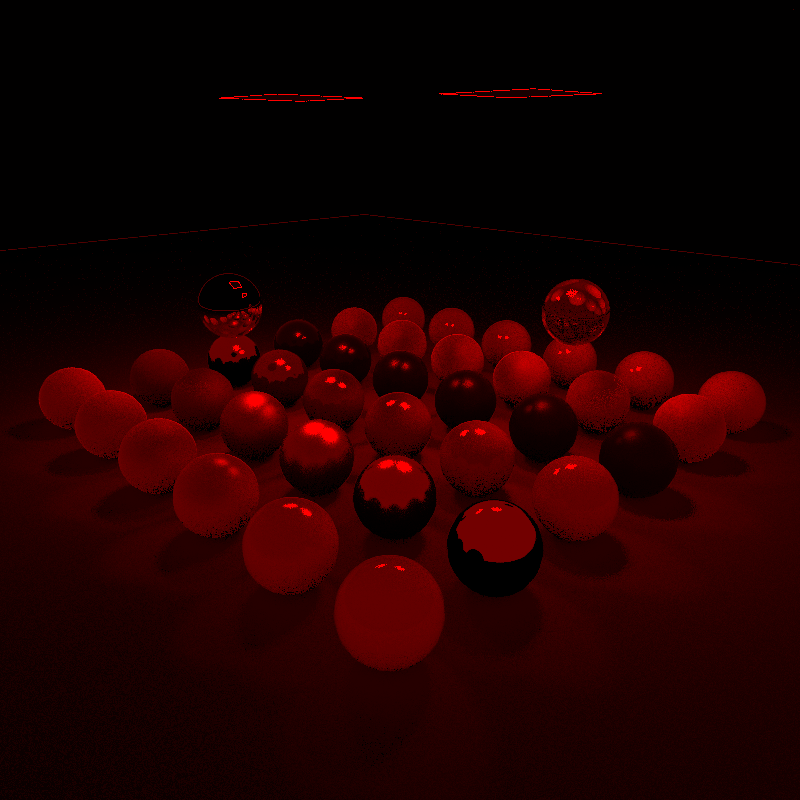
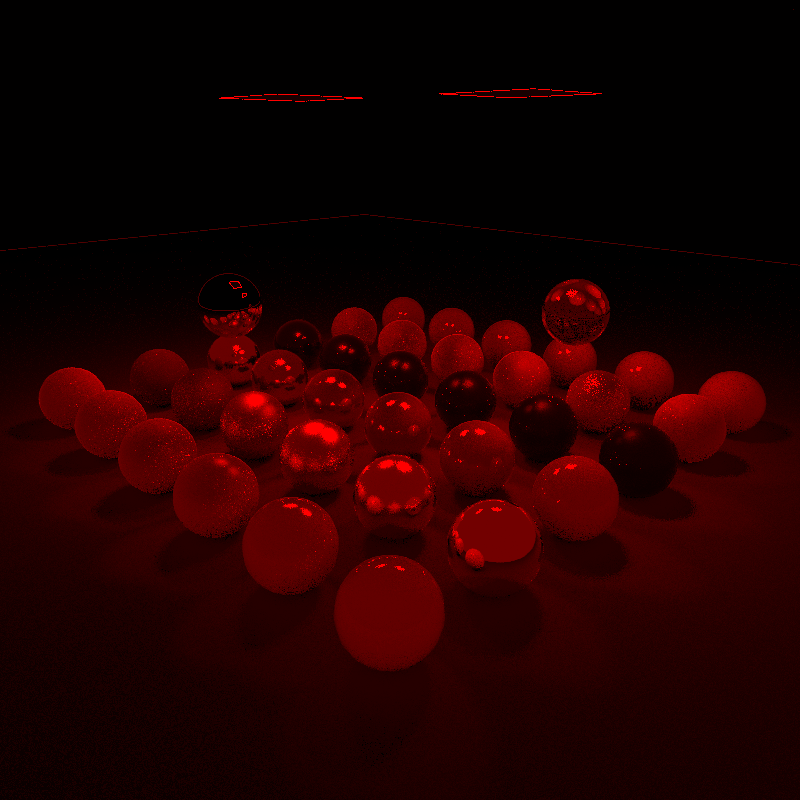
direct specular & indirect diffuse separation

diff --git a/src/interactions.h b/src/interactions.h
@@ -189,7 +189,7 @@ __host__ __device__ float schlickFresnelFull(float eta, float cosOut) {
 
 __host__ __device__ bool sampleBsdf(
 	glm::vec3 lightOut, glm::vec3 shadeNormal, Material m, bool backface,
-	glm::vec2 rand, glm::vec3 *lightInRes, glm::vec3 *bsdf, float *pdf
+	glm::vec2 rand, glm::vec3 *lightInRes, glm::vec3 *bsdf, float *pdf, bool *isSpecular
 ) {
 	glm::vec3 lightIn;
 	switch (m.type) {
@@ -197,6 +197,7 @@ __host__ __device__ bool sampleBsdf(
 		lightIn = glm::reflect(-lightOut, shadeNormal);
 		*bsdf = m.baseColorLinear / glm::abs(glm::dot(shadeNormal, lightIn));
 		*pdf = 1.0f;
+		*isSpecular = true;
 		break;
 	case MaterialType::specularTransmission:
 		{
@@ -228,6 +229,7 @@ __host__ __device__ bool sampleBsdf(
 				*pdf = 1.0f - fresnel;
 			}
 			*bsdf = m.baseColorLinear * (*pdf) / glm::abs(glm::dot(shadeNormal, lightIn));
+			*isSpecular = true;
 		}
 		break;
 
@@ -249,6 +251,7 @@ __host__ __device__ bool sampleBsdf(
 				rand.x = (rand.x - diffuseWeight) / (1.0f - diffuseWeight);
 				half = sampleDisneySpecularHalf(m, shadeNormal, rand);
 				lightIn = glm::reflect(-lightOut, half);
+				*isSpecular = true;
 			}
 
 			float cosOut = glm::abs(glm::dot(shadeNormal, lightOut)), cosIn = glm::dot(shadeNormal, lightIn);
@@ -411,7 +414,10 @@ __host__ __device__ void multipleImportanceSampling(
 	// sample bsdf
 	glm::vec3 lteBsdf(0.0f), lightInBsdf, bsdfBsdf;
 	float bsdfPdfBsdf = 0.0f, lightPdfBsdf = 0.0f;
-	if (sampleBsdf(-path.ray.direction, shadeNormal, m, backface, rand2, &lightInBsdf, &bsdfBsdf, &bsdfPdfBsdf)) {
+	bool isSpecularDummy;
+	if (sampleBsdf(
+		-path.ray.direction, shadeNormal, m, backface, rand2, &lightInBsdf, &bsdfBsdf, &bsdfPdfBsdf, &isSpecularDummy
+	)) {
 		Ray ray;
 		ray.origin = intersect;
 		ray.direction = lightInBsdf;
@@ -469,7 +475,7 @@ __host__ __device__ void multipleImportanceSampling(
 __host__ __device__ void scatterRay(
 	PathSegment &path, glm::vec3 intersect,
 	glm::vec3 geomNormal, glm::vec3 shadeNormal, const Material &m,
-	glm::vec2 rand, bool includeDirectLighting, bool isIndirect
+	glm::vec2 rand, bool *isSpecular, bool includeDirectLighting, bool isIndirect
 ) {
 	path.ray.origin = intersect;
 
@@ -491,7 +497,7 @@ __host__ __device__ void scatterRay(
 
 		glm::vec3 brdf, lightIn;
 		float pdf;
-		if (!sampleBsdf(-path.ray.direction, shadeNormal, m, backface, rand, &lightIn, &brdf, &pdf)) {
+		if (!sampleBsdf(-path.ray.direction, shadeNormal, m, backface, rand, &lightIn, &brdf, &pdf, isSpecular)) {
 			path.remainingBounces = 0;
 		}
 		path.ray.direction = lightIn;

diff --git a/src/preview.cpp b/src/preview.cpp
@@ -196,7 +196,7 @@ void drawGui(int windowWidth, int windowHeight) {
 
     // Dear imgui define
     ImVec2 minSize(300.f, 100.f);
-    ImVec2 maxSize((float)windowWidth * 0.5, (float)windowHeight * 0.5);
+    ImVec2 maxSize((float)windowWidth, (float)windowHeight);
     ImGui::SetNextWindowSizeConstraints(minSize, maxSize);
 
     ImGui::SetNextWindowPos(ui_hide ? ImVec2(-1000.f, -1000.f) : ImVec2(0.0f, 0.0f));
@@ -217,13 +217,15 @@ void drawGui(int windowWidth, int windowHeight) {
 
 	{
 		const char *previewItems[] = {
-            "Direct Illumination",
-            "Direct Illumination Variance",
-            "Indirect Illumination",
-            "Indirect Illumination Variance",
+            "Direct Specular Illumination",
+            "Direct Specular Illumination Variance",
+            "Indirect Diffuse Illumination",
+            "Indirect Diffuse Illumination Variance",
             "Full Illumination",
             "World Normal",
             "World Position",
+            "Filtered Direct Specular",
+            "Filtered Indirect Diffuse",
             "Filtered Color"
         };
 		ImGui::Combo("Visualize Buffer", &ui_previewBuffer, previewItems, IM_ARRAYSIZE(previewItems));
@@ -234,10 +236,17 @@ void drawGui(int windowWidth, int windowHeight) {
 
     ImGui::Separator();
 
-    ImGui::SliderInt("Filter Size", &ui_filterSize, 0, 100);
-    ImGui::SliderFloat("Color Weight", &ui_colorWeight, 0.001f, 3.0f);
-    ImGui::SliderFloat("Normal Weight", &ui_normalWeight, 0.001f, 3.0f);
-    ImGui::SliderFloat("Position Weight", &ui_positionWeight, 0.001f, 3.0f);
+    ImGui::SliderInt("Specular Filter Size", &ui_specularFilterSize, 0, 100);
+    ImGui::SliderFloat("Specular Color Weight", &ui_specularColorWeight, 0.001f, 3.0f);
+    ImGui::SliderFloat("Specular Normal Weight", &ui_specularNormalWeight, 0.001f, 3.0f);
+    ImGui::SliderFloat("Specular Position Weight", &ui_specularPositionWeight, 0.001f, 3.0f);
+
+    ImGui::Separator();
+
+    ImGui::SliderInt("Diffuse Filter Size", &ui_diffuseFilterSize, 0, 100);
+    ImGui::SliderFloat("Diffuse Color Weight", &ui_diffuseColorWeight, 0.001f, 3.0f);
+    ImGui::SliderFloat("Diffuse Normal Weight", &ui_diffuseNormalWeight, 0.001f, 3.0f);
+    ImGui::SliderFloat("Diffuse Position Weight", &ui_diffusePositionWeight, 0.001f, 3.0f);
 
     ImGui::End();
 

diff --git a/src/main.cpp b/src/main.cpp
@@ -30,10 +30,15 @@ int ui_previewBuffer = static_cast<int>(BufferType::FullIllumination);
 bool ui_pauseRendering = false;
 int ui_limitSamples = 0;
 
-int ui_filterSize = 80;
-float ui_colorWeight = 0.45f;
-float ui_normalWeight = 0.35f;
-float ui_positionWeight = 0.2f;
+int ui_specularFilterSize = 80;
+float ui_specularColorWeight = 3.0f;
+float ui_specularNormalWeight = 0.15f;
+float ui_specularPositionWeight = 0.4f;
+
+int ui_diffuseFilterSize = 10;
+float ui_diffuseColorWeight = 1.0f;
+float ui_diffuseNormalWeight = 0.1f;
+float ui_diffusePositionWeight = 0.1f;
 
 static bool camchanged = true;
 static float dtheta = 0, dphi = 0;
@@ -141,16 +146,16 @@ void saveImage(BufferType type) {
     std::ostringstream ss;
     ss << filename << "." << startTimeString << "." << samples << "samp" << ".";
     switch (static_cast<BufferType>(ui_previewBuffer)) {
-    case BufferType::DirectIllumination:
+    case BufferType::DirectSpecularIllumination:
         ss << "direct";
         break;
-    case BufferType::DirectIlluminationVariance:
+    case BufferType::DirectSpecularIlluminationVariance:
         ss << "directVar";
         break;
-    case BufferType::IndirectIllumination:
+    case BufferType::IndirectDiffuseIllumination:
         ss << "indirect";
         break;
-    case BufferType::IndirectIlluminationVariance:
+    case BufferType::IndirectDiffuseIlluminationVariance:
         ss << "indirectVar";
         break;
     case BufferType::FullIllumination:
@@ -269,7 +274,15 @@ void runCuda() {
         }
     }
 
-    aTrous(5, ui_filterSize, iteration, ui_colorWeight, ui_normalWeight, ui_positionWeight);
+    aTrousPrepare(iteration);
+    aTrous(
+        BufferType::DirectSpecularIllumination, 5, ui_specularFilterSize, iteration,
+        ui_specularColorWeight, ui_specularNormalWeight, ui_specularPositionWeight
+    );
+    aTrous(
+        BufferType::IndirectDiffuseIllumination, 5, ui_diffuseFilterSize, iteration,
+        ui_diffuseColorWeight, ui_diffuseNormalWeight, ui_diffusePositionWeight
+    );
 
     uchar4 *pbo_dptr = NULL;
     cudaGLMapBufferObject((void **)&pbo_dptr, pbo);

diff --git a/src/pathtrace.h b/src/pathtrace.h
@@ -5,13 +5,15 @@
 #include "utilities.h"
 
 enum class BufferType {
-	DirectIllumination,
-	DirectIlluminationVariance,
-	IndirectIllumination,
-	IndirectIlluminationVariance,
+	DirectSpecularIllumination,
+	DirectSpecularIlluminationVariance,
+	IndirectDiffuseIllumination,
+	IndirectDiffuseIlluminationVariance,
 	FullIllumination,
 	Normal,
 	Position,
+	FilteredDirectSpecular,
+	FilteredIndirectDiffuse,
 	FilteredColor
 };
 
@@ -22,7 +24,10 @@ void updateStratifiedSamples(
 );
 
 void pathtrace(int frame, int iteration, int directLight, int numLights);
-void aTrous(int levels, float radius, int iter, float colorWeight, float normalWeight, float positionWeight);
+void aTrousPrepare(int iter);
+void aTrous(
+	BufferType buf, int levels, float radius, int iter, float colorWeight, float normalWeight, float positionWeight
+);
 
 void saveBufferState(BufferType buf, int iteration);
 void sendBufferToPbo(uchar4 *pbo, BufferType buf, int iter);

diff --git a/src/main.h b/src/main.h
@@ -36,10 +36,15 @@ extern int ui_previewBuffer;
 extern bool ui_pauseRendering;
 extern int ui_limitSamples;
 
-extern int ui_filterSize;
-extern float ui_colorWeight;
-extern float ui_normalWeight;
-extern float ui_positionWeight;
+extern int ui_specularFilterSize;
+extern float ui_specularColorWeight;
+extern float ui_specularNormalWeight;
+extern float ui_specularPositionWeight;
+
+extern int ui_diffuseFilterSize;
+extern float ui_diffuseColorWeight;
+extern float ui_diffuseNormalWeight;
+extern float ui_diffusePositionWeight;
 
 void runCuda();
 void restartRendering();

diff --git a/src/sceneStructs.h b/src/sceneStructs.h
@@ -104,8 +104,9 @@ struct PathSegment {
 	Ray ray;
 	int pixelIndex;
 	int lastGeom;
-	int16_t remainingBounces;
+	int8_t remainingBounces;
 	bool prevBounceNoMis;
+	bool prevBounceSpecular;
 	bool indirectIllum;
 };
 

diff --git a/README.md b/README.md
@@ -14,19 +14,19 @@ Denoised 16 samples per pixel image.
 
 Original 16 samples per pixel image.
 
-## Separation of Direct and Indirect Illumination
+## Separation of Direct specular and Indirect diffuse Illumination
 
 ![](img/atrous/disney/direct.png)
 
-Direct illumination, 16 samples per pixel.
+Direct specular illumination, 16 samples per pixel.
 
 ![](img/atrous/disney/indirect.png)
 
-Indirect illumination, 16 samples per pixel.
+Indirect diffuse illumination, 16 samples per pixel.
 
-The path tracer has been modified to output direct and indirect illumination separately. As can be seen from the two images above, indirect illumination contains much more noise that direct illumination. Therefore, to reduce the amount of blurring, only indirect illumination is denoised.
+The path tracer has been modified to output direct specular and indirect diffuse illumination separately. Direct specular illumination consists of direct illumination and all paths consisting entirely of specular bounces, while indirect diffuse illumination consists of indirect illumination with one or more diffuse bounces. This separation scheme ensures that glossy and specular reflections are not filtered excessively. As can be seen from the two images above, indirect illumination contains much more noise that direct illumination. Different filter parameters are used for the two components.
 
-One downside of this naive separation is that glossy and specular reflections are also considered indirect illumination. Although it's handled as a special case for specular reflection and specular transmission materials, specular reflections of objects using Disney materials are still filtered.
+A more conservative separation of a scene's illumination is into direct and indirect illumination. In this scheme, direct illumination requires almost no filtering, but filtering indirect illumination would also blur glossy and specular reflections.
 
 ## Variance-Guided Filtering
 
@@ -88,15 +88,15 @@ Water scene, 16 samples per pixel.
 
 ![](img/atrous/water/direct.png)
 
-Direct illumination in the water scene.
+Direct specular illumination in the water scene.
 
 ![](img/atrous/water/indirect.png)
 
-Indirect illumination in the water scene. A large part of the scene is lit by indirect illumination.
+Indirect diffuse illumination in the water scene. A large part of the scene is lit by indirect diffuse illumination.
 
 ![](img/atrous/water/denoised.png)
 
-Denoised water scene, 16 samples per pixels. A satisfactory result is hard to obtain using such low sample count due to the complex geometry and light transport in the scene, and the wide usage of glossy materials. The direct illumination of this scene also contains a lot of noise due to the large size of the light source.
+Denoised water scene, 16 samples per pixels. A satisfactory result is hard to obtain using such low sample count due to the complex geometry and light transport in the scene, and the wide usage of glossy materials. The direct specular illumination of this scene also contains a lot of noise due to the large size of the light source.
 
 Project 3: Path Tracer
 =========
